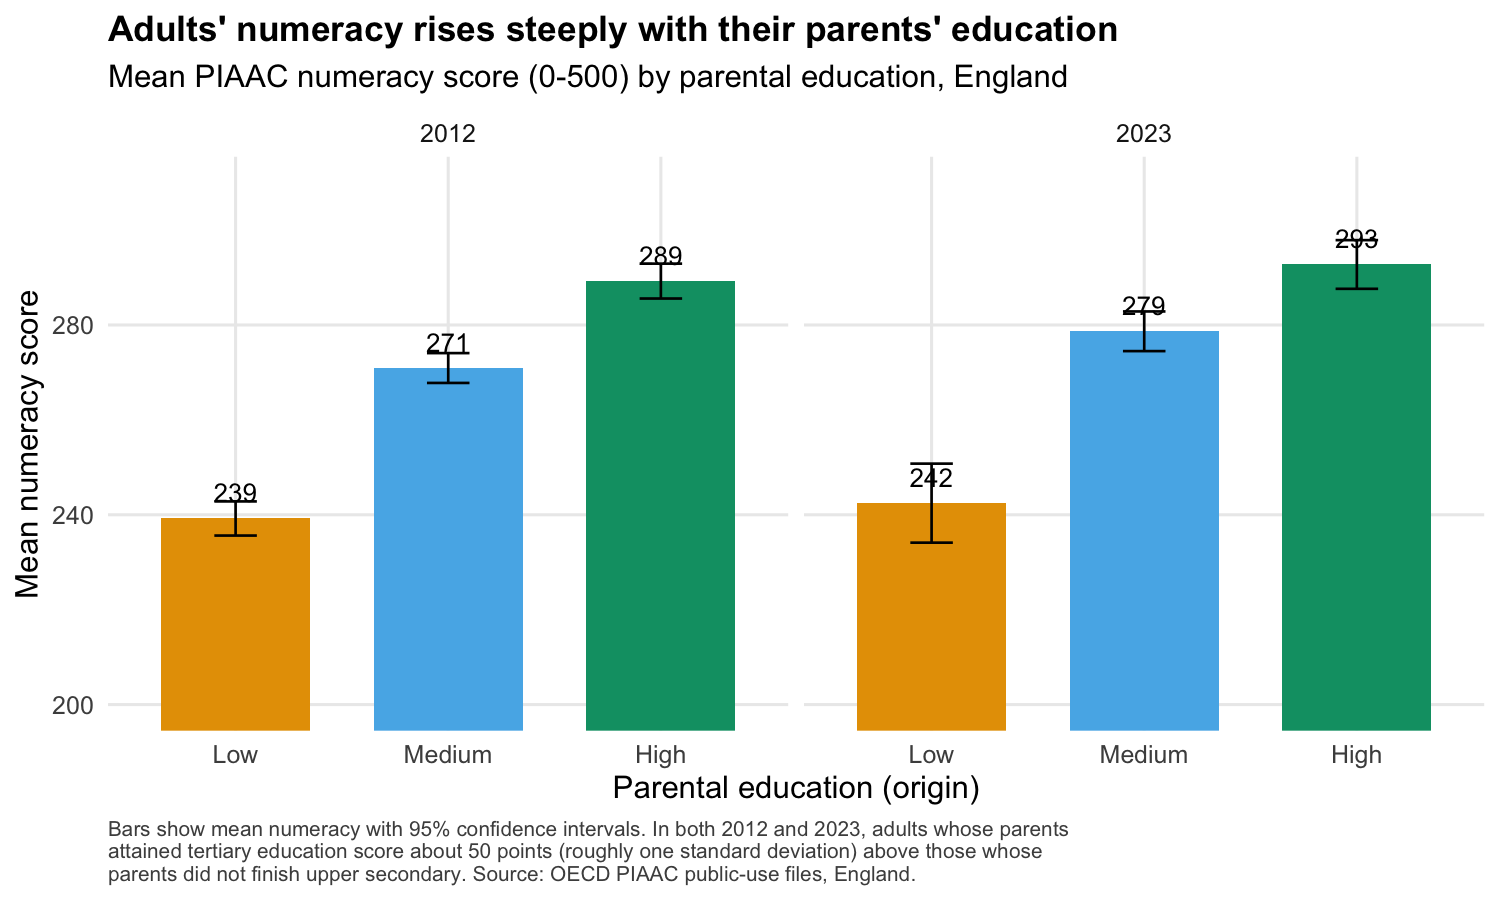
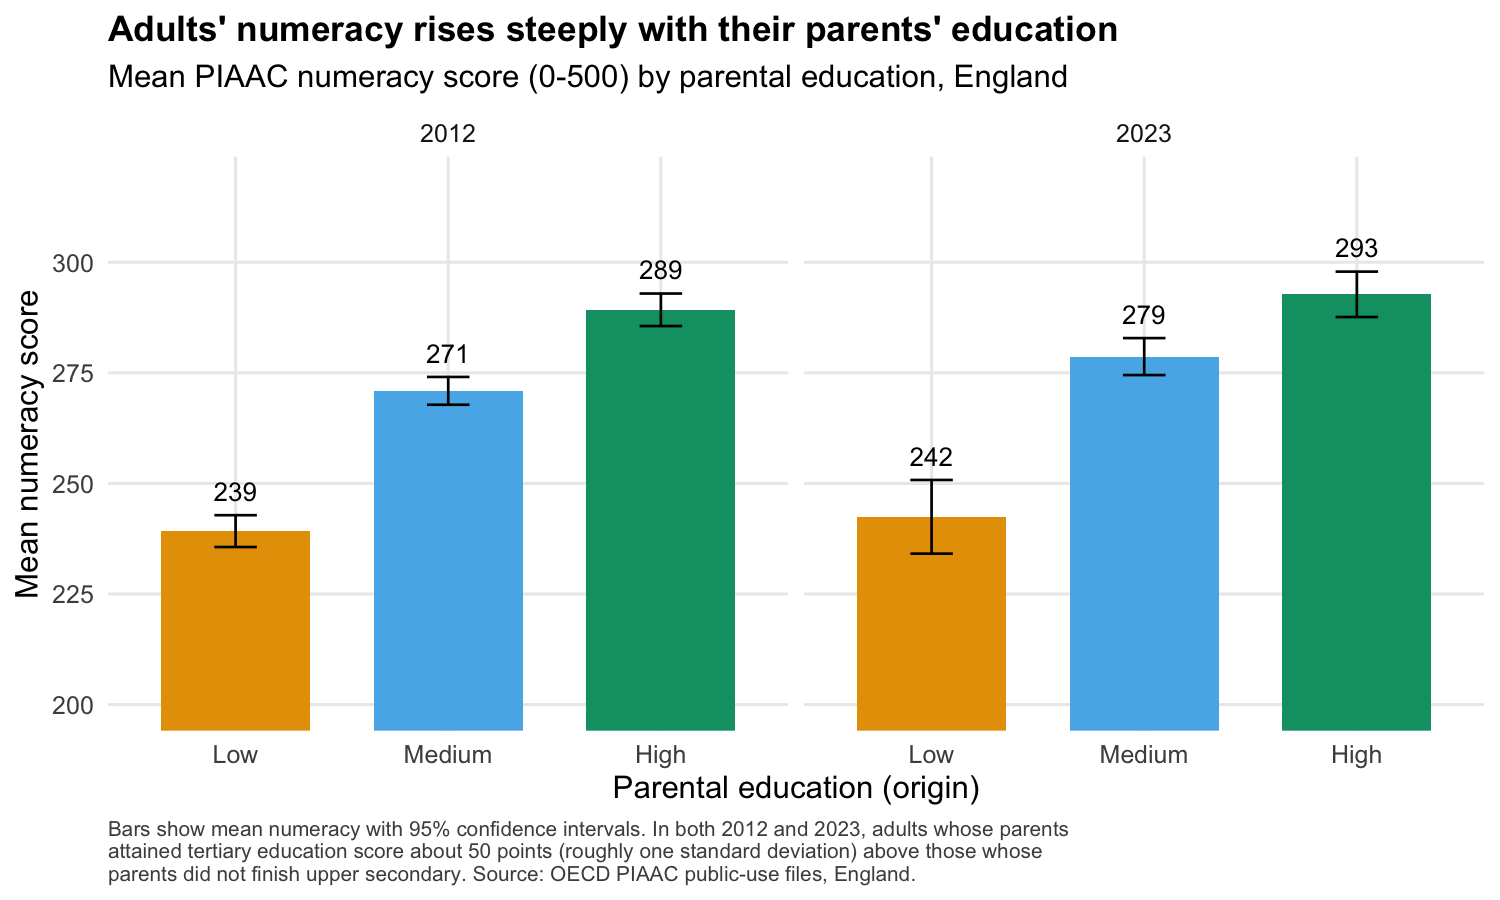
Improve figure labels and simplify byline date
- fig1 and fig4: place value labels above the confidence interval caps so
  they no longer overlap the error bars.
- Drop the month from the attribution byline ("June 2026" -> "2026") in the
  case study and README.

diff --git a/case-studies/skills-mobility/README.md b/case-studies/skills-mobility/README.md
@@ -59,4 +59,4 @@ Rscript ontology/build_scheme.R
   official OECD value label. Coverage report records 100% provenance.
 
 Source: OECD Survey of Adult Skills (PIAAC), England, 2012 and 2023. Analysis by
-The Tesseract Academy, June 2026.
+The Tesseract Academy, 2026.

diff --git a/case-studies/skills-mobility/case-study.md b/case-studies/skills-mobility/case-study.md
@@ -83,4 +83,4 @@ The variable scheme is the part most likely to be reused. Any analyst working ac
 
 The full method, including the plausible-value and replicate-weight handling, the validation against published OECD figures, and the limitations, is in the [technical note](technical-note.md). The pipeline runs with four commands and regenerates every number and figure in this case study from the raw open files.
 
-*Source: OECD Programme for the International Assessment of Adult Competencies (PIAAC), public-use files, England, Cycle 1 (2012) and Cycle 2 (2023). Analysis by The Tesseract Academy, June 2026.*
+*Source: OECD Programme for the International Assessment of Adult Competencies (PIAAC), public-use files, England, Cycle 1 (2012) and Cycle 2 (2023). Analysis by The Tesseract Academy, 2026.*